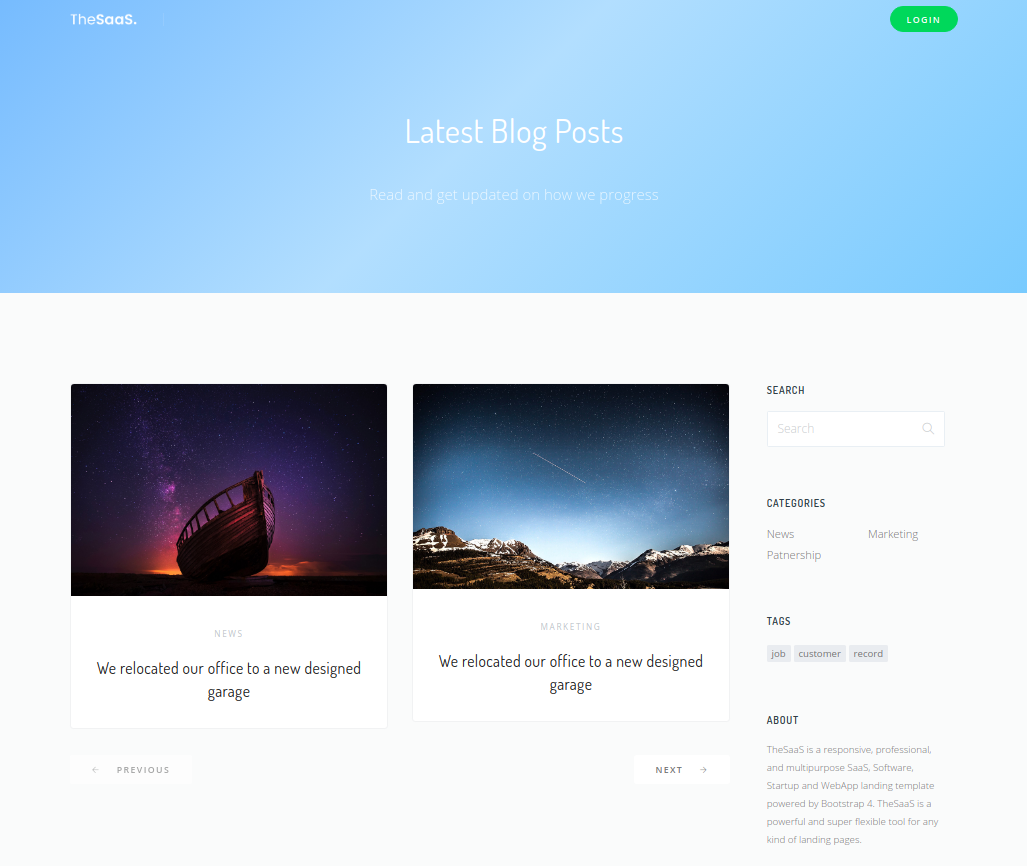
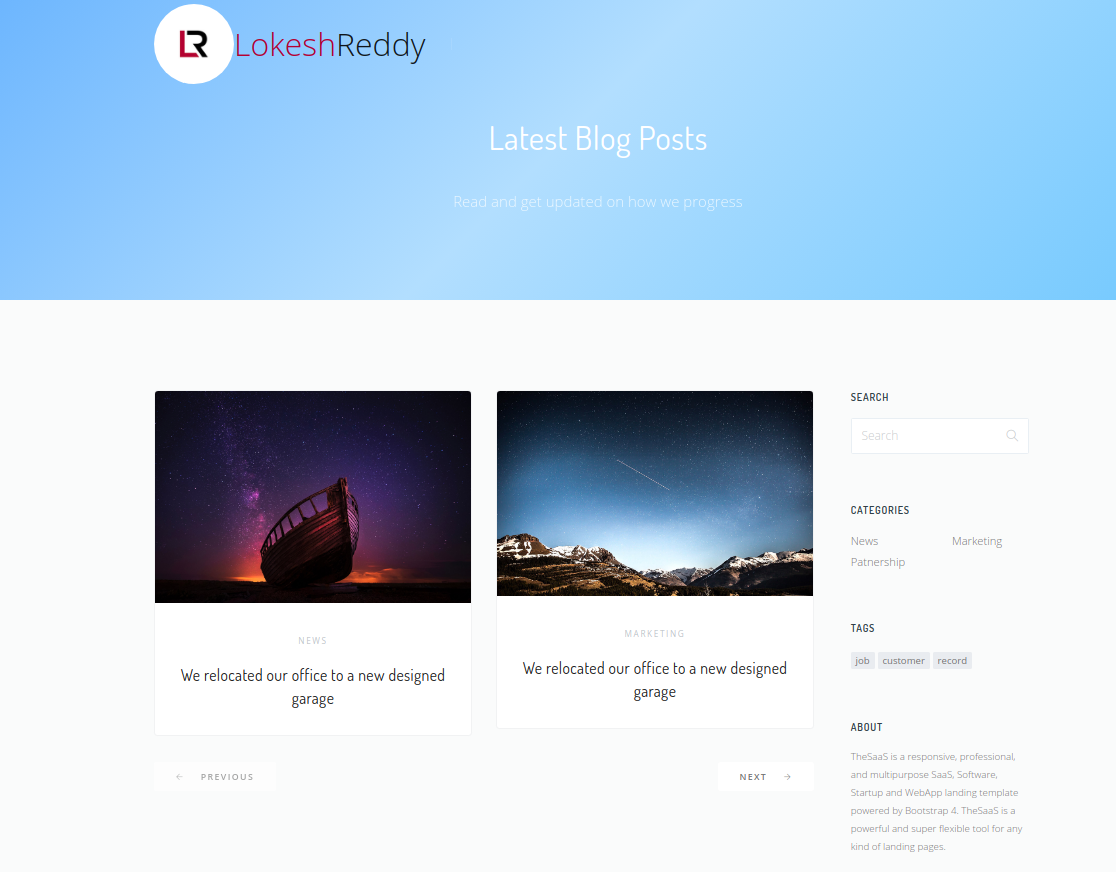
update README

diff --git a/resources/views/layouts/blog.blade.php b/resources/views/layouts/blog.blade.php
@@ -15,8 +15,8 @@
     <link href="{{asset('css/style.css')}}" rel="stylesheet">
 
     <!-- Favicons -->
-  <link rel="apple-touch-icon" href="{{asset('img/apple-touch-icon.png')}}">
-  <link rel="icon" href="{{asset('img/favicon.png')}}">
+
+  <link rel="icon" type="image/x-icon" href="{{asset('img/favicon.ico')}}">
   </head>
 
   <body>
@@ -27,17 +27,18 @@
 
         <div class="navbar-left">
           <button class="navbar-toggler" type="button">&#9776;</button>
-        <a class="navbar-brand" href="{{route('welcome')}}">
-          <img class="logo-dark" src="{{asset('img/logo-dark.png')}}" alt="logo">
-          <img class="logo-light" src="{{asset('img/logo-light.png')}}" alt="logo">
+        <a class="navbar-brand" href="{{route('welcome')}}" style="font-size: 40px;";>
+          {{-- <img class="logo-dark" src="{{asset('img/logo-dark.png')}}" alt="logo"> --}}
+          <img src="{{asset('img/apple-icon-precomposed.png')}}" width="100px" height="100px" style="border-radius: 50px;" alt="logo">
+          <span style="color: #AA2930">Lokesh</span> Reddy
           </a>
         </div>
-
+        
         <section class="navbar-mobile">
           <span class="navbar-divider d-mobile-none"></span>
         </section>
 
-      <a class="btn btn-sm btn-round btn-success" href="{{route('login')}}">Login</a>
+      {{-- <a class="btn btn-sm btn-round btn-success" href="{{route('login')}}">Login</a> --}}
 
       </div>
     </nav><!-- /.navbar -->
@@ -53,14 +54,14 @@
       <div class="container">
         <div class="row gap-y align-items-center">
           <div class="col-6 col-lg-3">
-            <a href="/"><img src="{{asset('img/logo-dark.png')}}" alt="logo"></a>
+            <a href="/"><img src="{{asset('img/apple-icon-precomposed.png')}}" width="50px" height="50px" alt="logo"></a>
           </div>
           <div class="col-6 col-lg-3 text-right order-lg-last">
             <div class="social">
-              <a class="social-facebook" href="https://www.facebook.com/thethemeio"><i class="fa fa-facebook"></i></a>
+              <a class="social-facebook" href="https://www.facebook.com/thethemeio"><i class="fa fa-github"></i></a>
               <a class="social-twitter" href="https://twitter.com/thethemeio"><i class="fa fa-twitter"></i></a>
-              <a class="social-instagram" href="https://www.instagram.com/thethemeio/"><i class="fa fa-instagram"></i></a>
-              <a class="social-dribbble" href="https://dribbble.com/thethemeio"><i class="fa fa-dribbble"></i></a>
+              <a class="social-github" href="https://www.instagram.com/thethemeio/"><i class="fa fa-youtube"></i></a>
+              <a class="social-youtube" href="https://dribbble.com/thethemeio"><i class="fa fa-linkedin"></i></a>
             </div>
           </div>
         </div>

diff --git a/resources/views/partials/sidebar.blade.php b/resources/views/partials/sidebar.blade.php
@@ -34,6 +34,6 @@
       <hr>
 
       <h6 class="sidebar-title">About</h6>
-      <p class="small-3">TheSaaS is a responsive, professional, and multipurpose SaaS, Software, Startup and WebApp landing template powered by Bootstrap 4. TheSaaS is a powerful and super flexible tool for any kind of landing pages.</p>
+      <p class="small-3">The is a responsive, professional, and multipurpose CMS, Software, Startup and WebApp landing template powered by Bootstrap 4. The is a powerful and super flexible tool for any kind of landing pages.</p>
     </div>
   </div>

diff --git a/README.md b/README.md
@@ -1,6 +1,6 @@
 # CMS App with Laravel
 
-| Features                                    | Implemented ?      |
+| Features                                    | Implemented        |
 | :------------------------------------------ | :----------------- |
 | Authentication                              | :heavy_check_mark: |
 | CRUD Post                                   | :heavy_check_mark: |
@@ -15,6 +15,8 @@
 | Filter by Tags                              | :heavy_check_mark: |
 | Filter by Category                          | :heavy_check_mark: |
 | Pagination                                  | :heavy_check_mark: |
+| Disqus                                      | :heavy_check_mark: |
+| Trix Editor                                 | :heavy_check_mark: |
 
 #### Home Page
 
@@ -23,5 +25,9 @@
 #### Dashboard
 
 ![dashboard](dashboard.png)
+
+#### Discus
+
+![discus](discus.png)
 
 Got your attention. Interested in it, just fork it or clone and Start coding... :blush:
